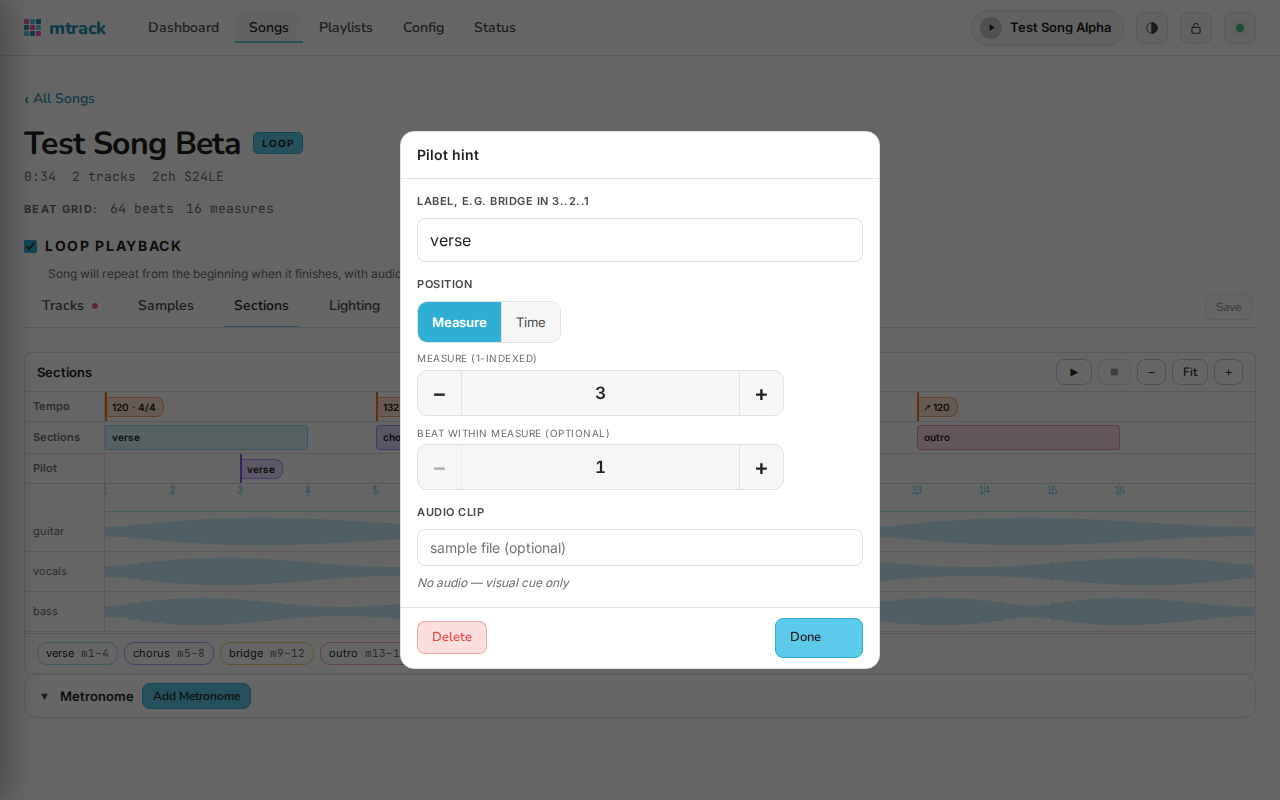
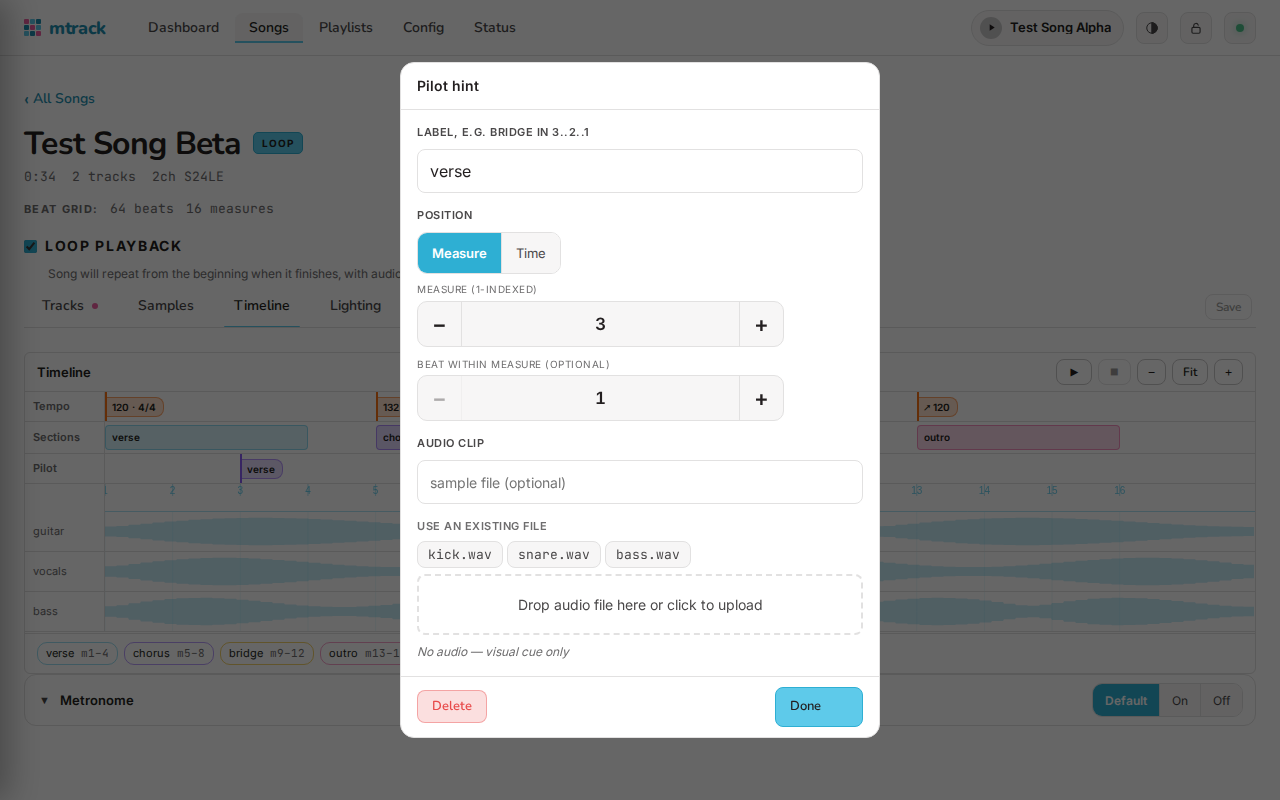
docs(webui): the metronome panel, the player-wide defaults, and the tab rename
The song's metronome panel and the player-wide defaults editor this
branch adds were undocumented, and the tab this all hangs off is called
Timeline now, not Sections.

- web-ui.md gains a "Metronome" subsection for the song panel (the
  Default/On/Off tri-state and what "inherited from player defaults"
  means) and a "Metronome defaults" one for the config page, plus a
  bullet in the config section list.
- Every "Sections tab" reference becomes "Timeline tab", here and in
  song-config.md.
- Two new captures — the config editor's metronome section with presets
  and the four sound tiles, and the song panel showing the tri-state. The
  config shot hides the sticky topnav, which would otherwise paint across
  an element screenshot.
- Existing song-page shots regenerated: the tab label changed in all of
  them.

diff --git a/src/webui/svelte/e2e/screenshots/capture.spec.ts b/src/webui/svelte/e2e/screenshots/capture.spec.ts
@@ -437,6 +437,69 @@ test("virtual-track-waveforms", async ({ page }) => {
   });
 });
 
+// --- Metronome: player-wide defaults, and the per-song panel --------------
+
+/** The config store with a `metronome:` defaults block, so the Config page's
+ * metronome editor has something to show. */
+const CONFIG_WITH_METRONOME = `songs: songs
+profiles:
+  - hostname: test-host
+    audio:
+      device: default
+samples: {}
+metronome:
+  enabled: true
+  volume: 0.8
+  sounds:
+    accent:
+      freq: 1600
+      volume: 0.9
+    normal:
+      freq: 1200
+      volume: 0.7
+    half:
+      freq: 1400
+      volume: 0.8
+    sub:
+      freq: 1000
+      volume: 0.45
+`;
+
+test("config-metronome", async ({ page }) => {
+  await page.route("**/api/config/store", async (route) => {
+    const resp = await route.fetch();
+    const data = await resp.json();
+    await route.fulfill({
+      response: resp,
+      json: { ...data, yaml: CONFIG_WITH_METRONOME },
+    });
+  });
+  await page.goto("/#/config");
+  await expect(page.locator(".list-view")).toBeVisible();
+  await expect(page.locator(".metronome-defaults")).toBeVisible();
+  await page.locator(".metronome-defaults").scrollIntoViewIfNeeded();
+  // The topnav is sticky and would paint across an element screenshot.
+  await page.addStyleTag({ content: ".topnav { display: none !important; }" });
+  await page.waitForTimeout(200);
+  // The section plus its header, which carries the save state.
+  await page
+    .locator(".samples-top-section", {
+      has: page.locator(".metronome-defaults"),
+    })
+    .screenshot({ path: path.join(DOCS_IMAGES, "config-metronome.png") });
+});
+
+test("song-metronome-panel", async ({ page }) => {
+  await steOpen(page, MET_YAML);
+  const panel = page.locator(".metronome-editor");
+  await panel.scrollIntoViewIfNeeded();
+  await expect(panel).toBeVisible();
+  await page.waitForTimeout(200);
+  await panel.screenshot({
+    path: path.join(DOCS_IMAGES, "song-metronome-panel.png"),
+  });
+});
+
 test("section-timeline-tempo-dialog", async ({ page }) => {
   await steOpen(page);
   await page.locator(".marker-lane").first().locator(".marker").last().click();

diff --git a/docs/src/configuration/song-config.md b/docs/src/configuration/song-config.md
@@ -57,23 +57,23 @@ midi_playback:
 
   # MIDI channels from the MIDI file to exclude.
   exclude_midi_channels:
-  - 15
+    - 15
 
 # The tracks associated with this song.
 tracks:
-- name: click
-  file: click.wav
-- name: cue
-  file: /mnt/song-storage/cue.wav
-- name: backing-track-l
-  file: Backing Tracks.wav
-  file_channel: 1
-- name: backing-track-r
-  file: Backing Tracks.wav
-  file_channel: 2
-- name: keys
-  file: Keys.wav
-  file_channel: 1
+  - name: click
+    file: click.wav
+  - name: cue
+    file: /mnt/song-storage/cue.wav
+  - name: backing-track-l
+    file: Backing Tracks.wav
+    file_channel: 1
+  - name: backing-track-r
+    file: Backing Tracks.wav
+    file_channel: 2
+  - name: keys
+    file: Keys.wav
+    file_channel: 1
 
 # (Optional) Loop the song indefinitely. Audio crossfades seamlessly at loop
 # boundaries. Press Play or Next to break out and advance the playlist.
@@ -101,9 +101,9 @@ tempo:
 # (tempo map or click analysis). It appears as a virtual output track —
 # route it via track_mappings in the profile like any other track.
 metronome:
-  track: metronome          # output track name (default "metronome")
-  accent: [3, 2, 2]         # optional accent grouping within a measure
-  sounds:                   # optional; synthesized clicks by default
+  track: metronome # output track name (default "metronome")
+  accent: [3, 2, 2] # optional accent grouping within a measure
+  sounds: # optional; synthesized clicks by default
     accent: { freq: 1600, volume: 1.0 }
     normal: { file: clicks/lo.wav }
 
@@ -192,13 +192,13 @@ analysis.
 
 ```yaml
 tempo:
-  bpm: 152            # quarter notes per minute
+  bpm: 152 # quarter notes per minute
   time_signature: 7/8 # odd meters welcome; the grid gets one beat per eighth
-  start: 0.2          # optional lead-in seconds before measure 1 beat 1
-  changes:            # optional tempo/time-signature changes
+  start: 0.2 # optional lead-in seconds before measure 1 beat 1
+  changes: # optional tempo/time-signature changes
     - measure: 33
       bpm: 126
-      transition: { measures: 2 }  # linear ramp; or { beats: 4 }; omit to snap
+      transition: { measures: 2 } # linear ramp; or { beats: 4 }; omit to snap
     - measure: 65
       time_signature: 6/8
 ```
@@ -214,7 +214,7 @@ tempo:
 The generated beat grid emits one beat per denominator note — a 7/8 song gets seven beats per
 measure, matching how a metronome would click it.
 
-A tempo map can be added in the web UI's Sections tab, including a one-click "detect" that
+A tempo map can be added in the web UI's Timeline tab, including a one-click "detect" that
 prefills it from the song's MIDI file or an analyzed click track.
 
 Songs with a DSL light show but no `tempo {}` block in the `.light` file automatically use
@@ -229,11 +229,11 @@ map, and route anywhere.
 
 ```yaml
 metronome:
-  track: metronome    # the output track name (default "metronome")
-  accent: [3, 2, 2]   # optional accent grouping (7/8: accents on beats 1, 4, 6)
+  track: metronome # the output track name (default "metronome")
+  accent: [3, 2, 2] # optional accent grouping (7/8: accents on beats 1, 4, 6)
   sounds:
-    accent: { freq: 1600, volume: 1.0 }   # synthesized click, or:
-    normal: { file: clicks/lo.wav }       # a sample file (relative to the song dir)
+    accent: { freq: 1600, volume: 1.0 } # synthesized click, or:
+    normal: { file: clicks/lo.wav } # a sample file (relative to the song dir)
 ```
 
 - The metronome is a **virtual track**: add its track name to the profile's `track_mappings`
@@ -259,13 +259,14 @@ no re-recording of a full-length pilot track.
 
 ```yaml
 pilot:
-  track: pilot                # the output track name (default "pilot")
+  track: pilot # the output track name (default "pilot")
   hints:
-    - at: { measure: 25 }     # or { measure: 25, beat: 3 }, or { time: 84.2 }
+    - at: { measure: 25 } # or { measure: 25, beat: 3 }, or { time: 84.2 }
       label: "bridge in 3..2..1"
-      file: hints/bridge.wav  # optional — label-only hints are purely visual
-      align: end              # default: the sample ENDS at the position (countdowns);
-                              # "start" begins it there
+      file: hints/bridge.wav # optional — label-only hints are purely visual
+      align:
+        end # default: the sample ENDS at the position (countdowns);
+        # "start" begins it there
       # offset: -0.5          # optional fine shift of the anchor, in seconds
 ```
 
@@ -282,7 +283,7 @@ pilot:
 short files (any audio editor), drop the full-length track from `tracks:`, and reference the
 clips from `pilot.hints` at the right measures. From then on, moving a cue is a config edit.
 
-Hints are edited in the web UI's Sections tab and shown during playback as markers on the
+Hints are edited in the web UI's Timeline tab and shown during playback as markers on the
 progress bar plus the current hint's label.
 
 ## Sections
@@ -308,7 +309,7 @@ sections:
 - `start_measure` — Start measure, 1-indexed, inclusive
 - `end_measure` — End measure, 1-indexed, exclusive (must be greater than `start_measure`)
 
-Sections can also be created visually in the web UI's Sections tab with a canvas-based
+Sections can also be created visually in the web UI's Timeline tab with a canvas-based
 timeline editor that supports drag-to-create, resize, move, rename, and delete.
 
 ## Beat Grid and Song Analysis Cache

diff --git a/docs/src/interfaces/web-ui.md b/docs/src/interfaces/web-ui.md
@@ -156,9 +156,10 @@ while the band plays everything else.
 
 Supported audio formats: WAV, FLAC, MP3, OGG, AAC, M4A, AIFF.
 
-### Sections Tab
+### Timeline Tab
 
-A canvas-based visual editor for defining named song sections (e.g., verse, chorus, bridge).
+Named "Sections" until it grew tempo and pilot lanes, this is a canvas-based visual editor
+for the song's timeline: sections (e.g., verse, chorus, bridge).
 The timeline displays all track waveforms and beat grid measure lines. Sections can be:
 
 - **Created** by dragging on empty space (snaps to measure boundaries)
@@ -205,6 +206,20 @@ musical position, time, BPM and meter under it. Drag the line to seek, or use th
 for five-second jumps. Auditioning a boundary no longer means switching to the player and back.
 
 ![Preview transport and playhead](../images/section-preview-transport.png)
+
+#### Metronome
+
+Under the timeline, the song's metronome panel routes and shapes its click. The tri-state at
+the top — **Default / On / Off** — decides whether the song follows the player-wide default
+(see [the config editor](#configuration-editor)) or overrides it, which is `enabled` in the
+song's `metronome:` block: absent to follow, `true` or `false` to override.
+
+Below it: the track name the click is routed to, a click volume that trims this song against
+the rest, presets, and the four click sounds. A sound left unchecked is _inherited from player
+defaults_ rather than silenced — so a song only carries what it actually changes. Accents and
+subdivisions are not here; they live on the tempo markers, since they change mid-song.
+
+![The song's metronome panel](../images/song-metronome-panel.png)
 
 #### Tempo and pilot layers
 
@@ -420,6 +435,8 @@ The config editor provides a profile-based hardware configuration UI with tabs f
   hardware LED feedback
 - **Notifications** — Custom audio files for loop armed, break requested, loop exited, and
   section entering events, plus per-section-name overrides
+- **Metronome defaults** — the click sounds every song starts from, and whether the click is
+  on by default
 
 ![Configuration editor](../images/config-editor.png)
 
@@ -429,6 +446,20 @@ Click a profile to open its settings with tabs for each subsystem:
 
 Changes are saved with optimistic concurrency (checksums) and trigger automatic hardware
 reinitialization.
+
+### Metronome defaults
+
+With a dozen songs, click sounds are a player decision rather than a per-song one. The
+Metronome section edits the `metronome:` block of `mtrack.yaml`: the four click roles
+(accent, half, normal, sub) with volume, frequency and an optional sample file each, four
+presets to start from, and a checkbox that turns the click on by default for every song with
+a tempo map. Each sound previews in the browser — the speaker button synthesizes the same
+envelope the player uses, so you can audition without routing audio.
+
+Songs inherit all of it and override only what they set; see
+[the song's metronome panel](#metronome).
+
+![Player-wide metronome defaults](../images/config-metronome.png)
 
 ## Song Looping
 
@@ -443,7 +474,7 @@ of the loop, advances the playlist, and auto-plays the next song.
 
 ### Section Looping
 
-Named sections (defined by measure ranges in the Sections tab or `song.yaml`) can be looped
+Named sections (defined by measure ranges in the Timeline tab or `song.yaml`) can be looped
 during playback. Activate a section loop from the dashboard's section buttons, or via gRPC
 (`LoopSection`/`StopSectionLoop`) or MIDI controller events (`section_ack`, `stop_section_loop`).
 
